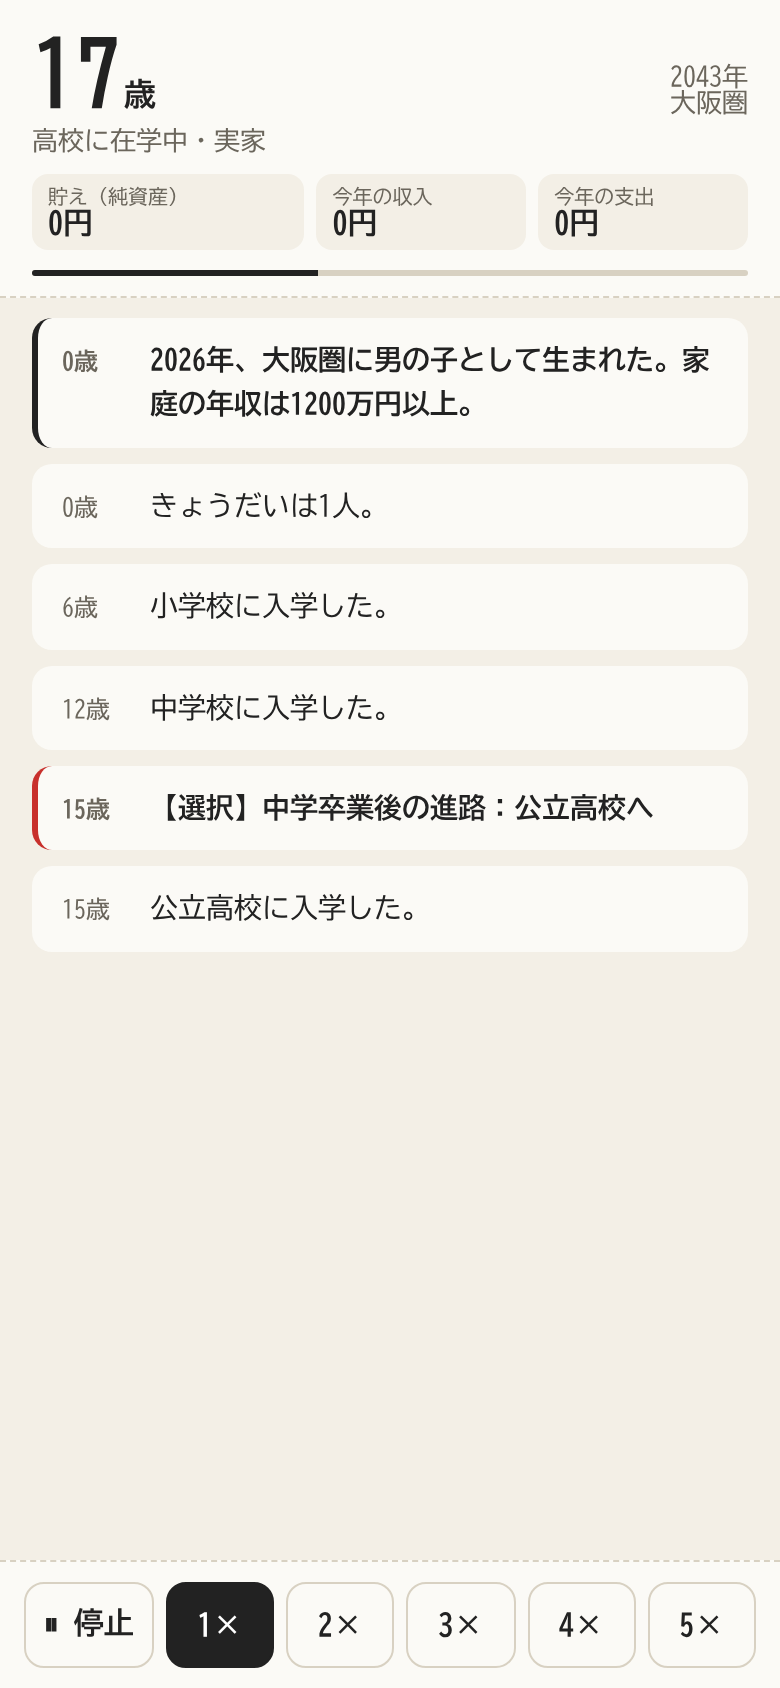
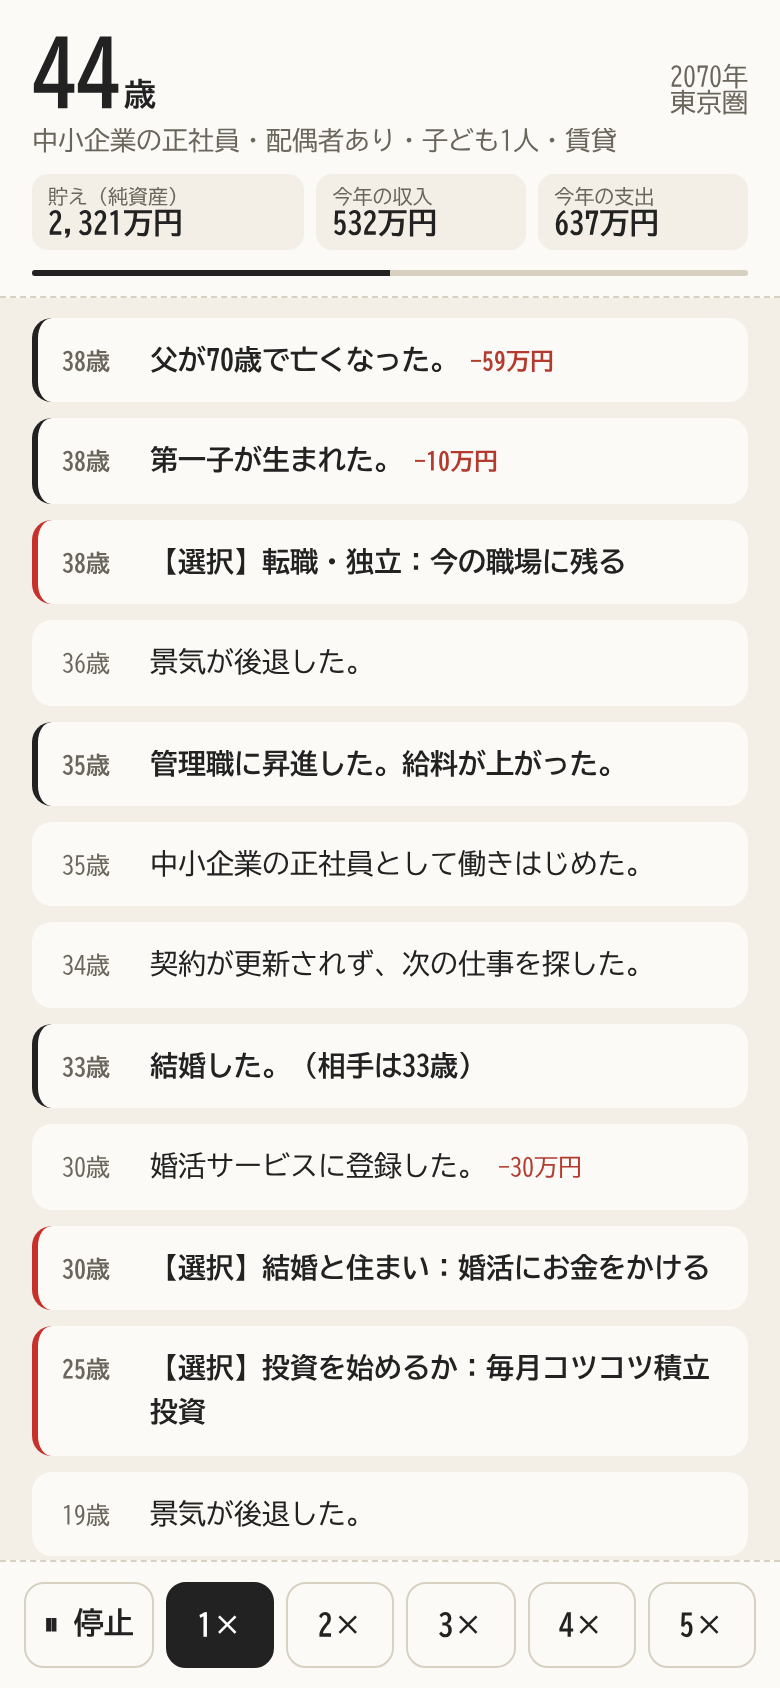
出来事の欄だけをスクロールさせ、新しい出来事を上に表示する
- プレイ画面の高さを画面に固定し、ページ全体が伸びてスクロールしないようにした
- 出来事は新しい順に上へ積む。下へスクロールして過去を読んでいる間は表示位置を保つ

Claude-Session: https://claude.ai/code/session_01P8h7G7H9Hz4F9jwmunJGJH

diff --git a/src/main.ts b/src/main.ts
@@ -149,7 +149,7 @@ class Game {
     this.feed.hidden = paused;
     this.log.hidden = !paused;
     if (paused) this.renderLog();
-    else this.feed.scrollTop = this.feed.scrollHeight;
+    else this.feed.scrollTop = 0;
   }
 
   private loop = (now: number): void => {
@@ -210,12 +210,14 @@ class Game {
 
   private pushEvent(e: LifeEvent): void {
     const amt = e.amount ? `<span class="amt ${e.amount > 0 ? "plus" : "minus"}">${e.amount > 0 ? "+" : ""}${yen(e.amount)}</span>` : "";
-    this.feed.append(
-      h(`<div class="ev k-${e.kind}${e.major ? " major" : ""}"><div class="a">${e.age}歳</div><div class="t">${esc(e.text)}${amt}</div></div>`),
-    );
+    // 新しい出来事を上に積む。下へスクロールして過去を読んでいる間は、表示位置を動かさない
+    const reading = this.feed.scrollTop > 40;
+    const el = h(`<div class="ev k-${e.kind}${e.major ? " major" : ""}"><div class="a">${e.age}歳</div><div class="t">${esc(e.text)}${amt}</div></div>`);
+    this.feed.prepend(el);
     // 古いものは間引いて軽く保つ（全履歴は一時停止中のログで見られる）
-    while (this.feed.children.length > 80) this.feed.firstElementChild!.remove();
-    this.feed.scrollTop = this.feed.scrollHeight;
+    while (this.feed.children.length > 80) this.feed.lastElementChild!.remove();
+    if (reading) this.feed.scrollTop += el.getBoundingClientRect().height + parseFloat(getComputedStyle(this.feed).rowGap || "0");
+    else this.feed.scrollTop = 0;
   }
 
   private renderLog(): void {

diff --git a/src/style.css b/src/style.css
@@ -140,10 +140,18 @@ button {
 
 /* ── プレイ画面 ── */
 .game {
-  flex: 1;
+  /* 外枠に合わせて伸びないよう、高さを画面に固定する */
+  flex: none;
   display: flex;
   flex-direction: column;
+  height: 100vh;
   height: 100dvh;
+  /* 画面全体は動かさず、出来事の欄だけをスクロールさせる */
+  overflow: hidden;
+}
+.game .hud,
+.game .controls {
+  flex: none;
 }
 .hud {
   padding: 14px 16px 10px;
@@ -223,7 +231,11 @@ button {
 
 .feed {
   flex: 1;
+  min-height: 0;
   overflow-y: auto;
+  overscroll-behavior: contain;
+  /* 位置の補正は main.ts で行うので、ブラウザの自動補正は切る（二重補正を防ぐ） */
+  overflow-anchor: none;
   padding: 10px 16px 16px;
   display: flex;
   flex-direction: column;
@@ -307,7 +319,9 @@ button {
 /* ── 振り返りログ ── */
 .log {
   flex: 1;
+  min-height: 0;
   overflow-y: auto;
+  overscroll-behavior: contain;
   padding: 10px 16px 16px;
 }
 .log h3 {
